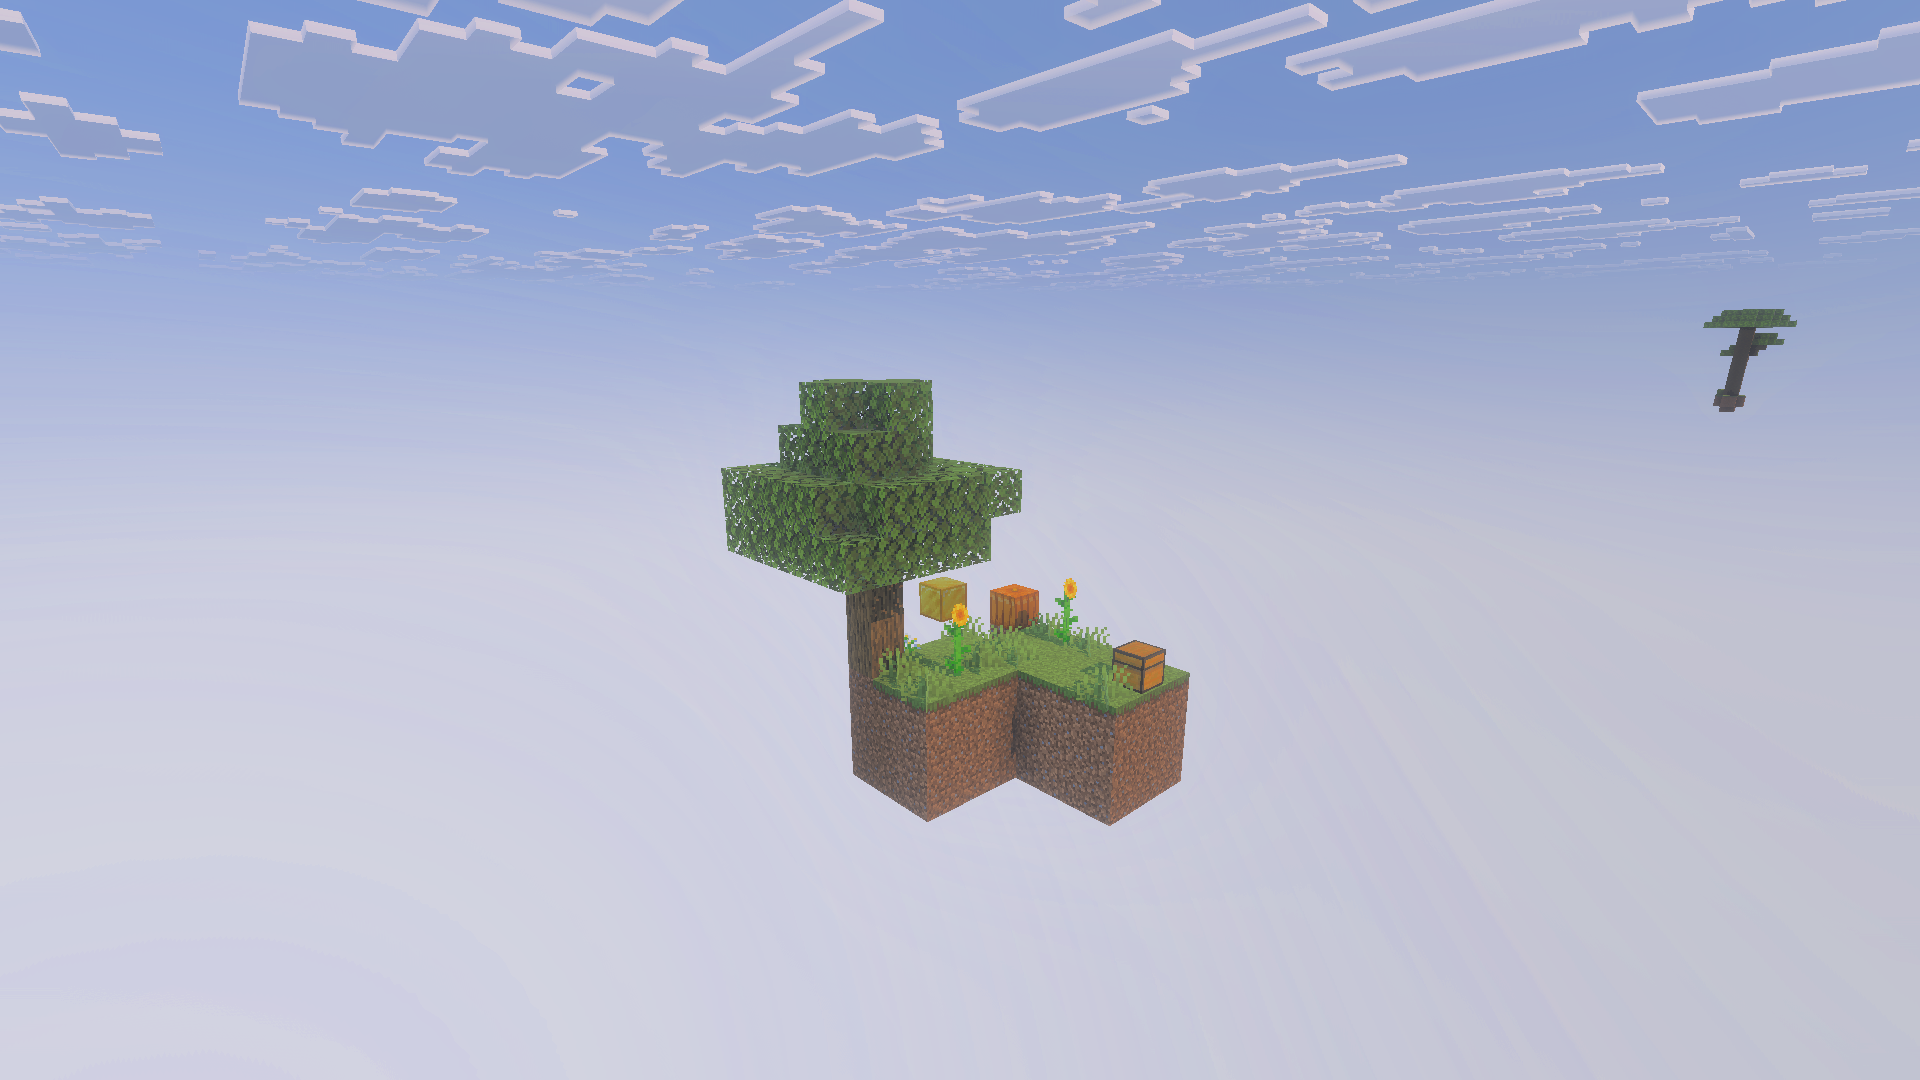
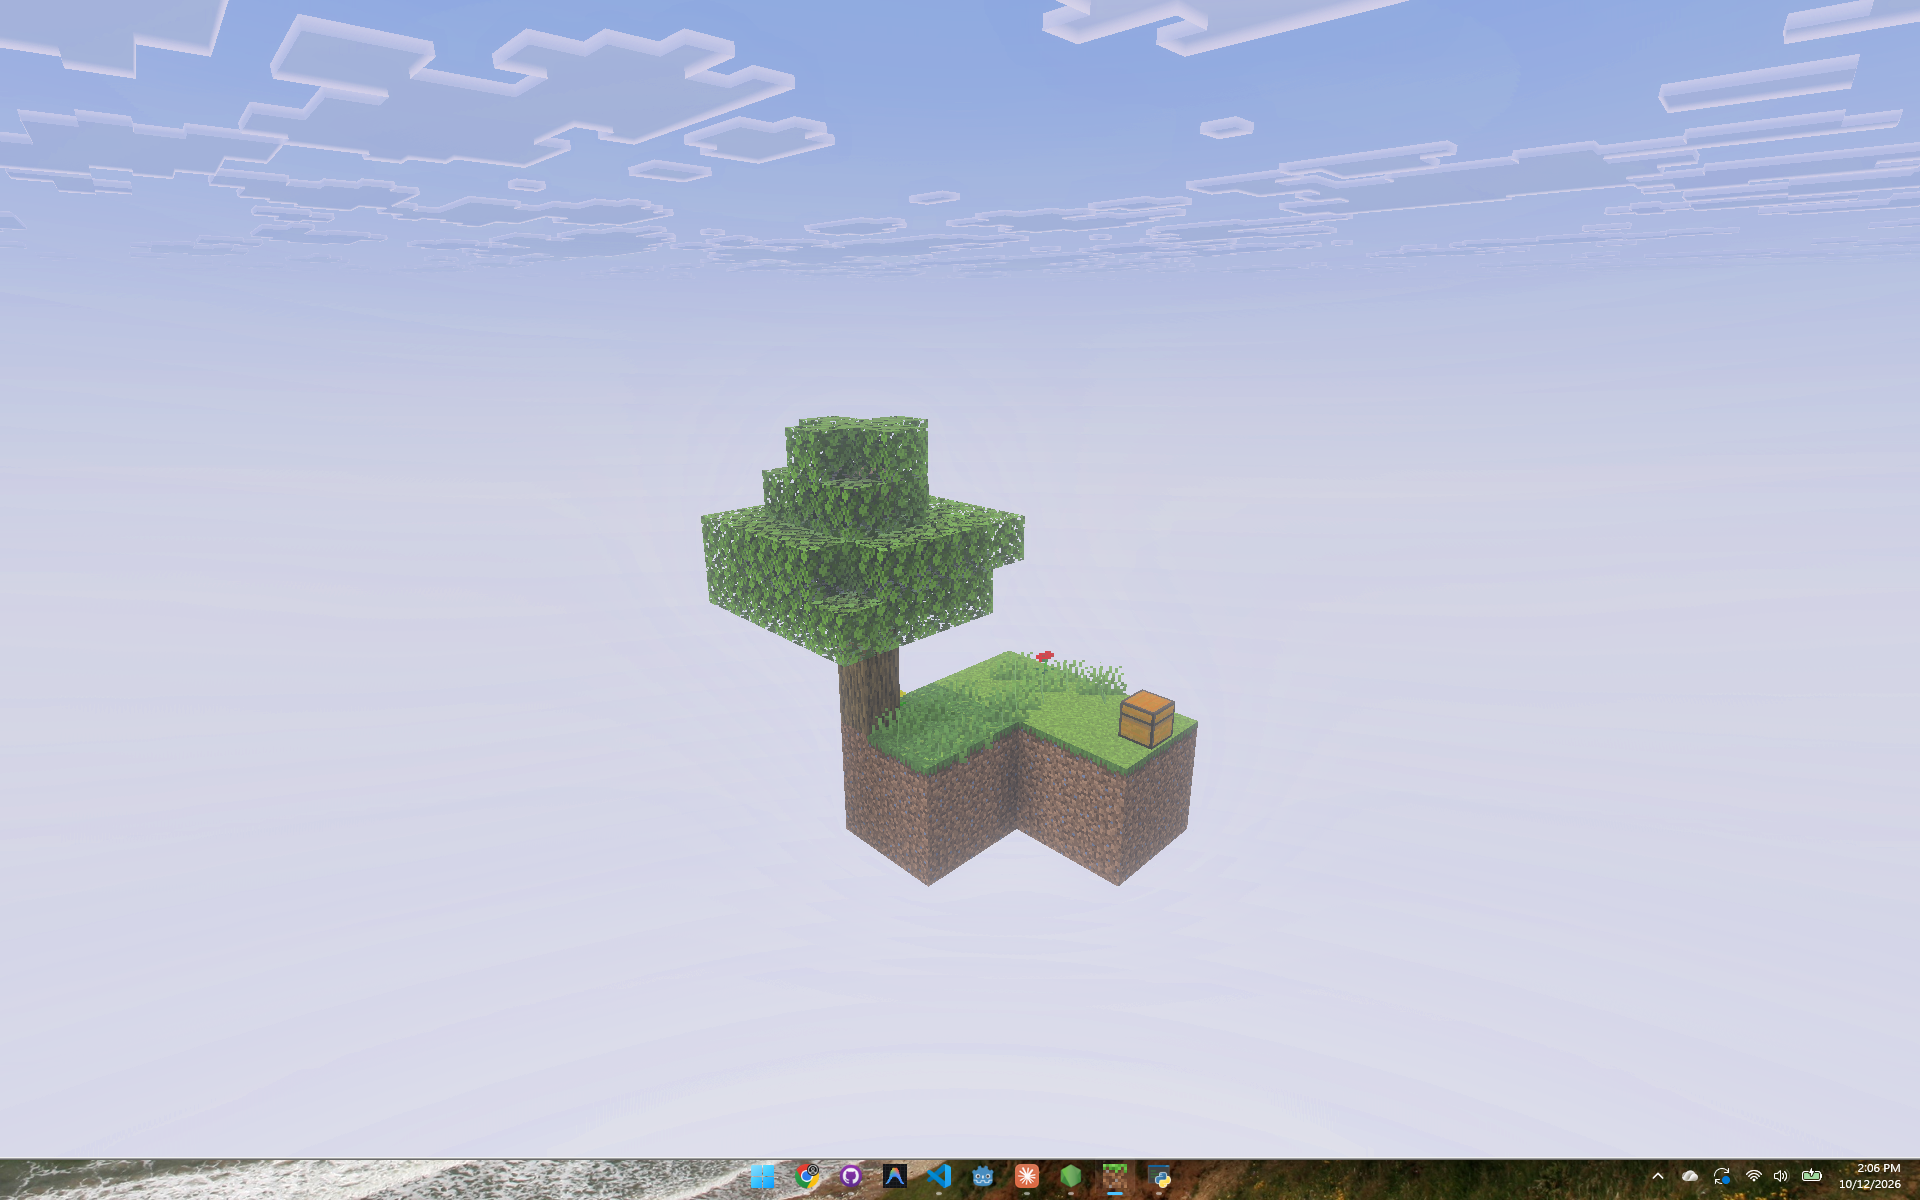
Rebuild the thumbnail from a fresh capture of the island
The plate the thumbnail was built from predated the island changing, so the
picture still showed a gold block that is not on the island any more. It is
re-shot, and the tool that shoots it is committed so it cannot drift again.

tools/capture_thumbnail_plate.py stages the island far out in the void and
photographs it twice: the bare stage, then the island standing on it. The
island is exactly what differs between the two frames, so the cut-out needs no
colour keying - the old keying fringed the leaves and ate the grass edge - and
keeping only the largest blob drops anything else that moved. Staging it also
means this neither needs the world to have been started nor changes it, which
matters because the dev world has never had its menu Start pressed.

Two things that were not obvious. Hiding the HUD does not keep chat out of the
plates, because what lands there is command feedback; sendcommandfeedback does.
And the client has to be joined and in front, or the shot grabs the desktop.

The composition is rebuilt against One Chunk Challenge rather than Four Sticks,
after reading the whole of the author's Planet Minecraft page rather than one
image: one island and no glints, and the title set ragged left on tracking
instead of justified to a common width, which is what every thumbnail there
does except Four Sticks and Hypixel Skyblock. The accent line is flat yellow,
as One Chunk's is, and tracking is positive so the black outlines separate the
[…]

diff --git a/tools/make_thumbnail.py b/tools/make_thumbnail.py
@@ -29,15 +29,19 @@ W, H = 1920, 1080
 STYLES = {
     "white": dict(top=(255, 255, 255), bot=(180, 184, 188), side=(138, 142, 146)),
     "gold":  dict(top=(255, 224, 90), bot=(255, 164, 14), side=(184, 105, 12)),
+    "yellow": dict(top=(255, 238, 92), bot=(255, 200, 0), side=(190, 140, 0)),
 }
 
+# Ragged left, the way One Chunk Challenge and One Block are set. The earlier
+# justified block came from Four Sticks alone; across the rest of the author's
+# thumbnails each line keeps its natural width.
 TITLE = [
-    dict(text="SKYBLOCK", style="white", cap=150, arc=9),
-    dict(text="INFINITE", style="white", cap=150, arc=9),
-    dict(text="BEDROCK",  style="gold",  cap=104, arc=-18),
+    dict(text="SKYBLOCK", style="white",  cap=146, arc=7),
+    dict(text="INFINITE", style="white",  cap=146, arc=7),
+    dict(text="BEDROCK",  style="yellow", cap=98,  arc=-10),
 ]
 
-STROKE, DEPTH, EXTRUDE_DEG, TRACK = 13, 8, 90, -12
+STROKE, DEPTH, EXTRUDE_DEG, TRACK = 13, 8, 90, 5
 
 
 # --------------------------------------------------------------------------- type
@@ -149,44 +153,26 @@ def _arc(img, bend):
 
 
 def render_title():
-    """Justify the two white lines to one width on tracking, then size the
-    accent line so it lands at 82 per cent of that and centre it, which is the
-    proportion the reference thumbnails use."""
-    white = [ln for ln in TITLE if ln["style"] != "gold"]
-    target = max(_advances(ln["cap"], ln["text"]) for ln in white)
-
-    plan = []
+    """Three lines set left, each at its natural width."""
+    pieces, widths = [], []
     for ln in TITLE:
-        if ln["style"] != "gold":
-            w = target
-            cap = ln["cap"]
-        else:
-            w = target * 0.82
-            # width scales with cap height, so solve for the cap that fits
-            cap = ln["cap"] * w / max(1.0, _advances(ln["cap"], ln["text"]))
-            cap = int(round(cap))
-            w = min(w, _advances(cap, ln["text"]) + 0.08 * cap * (len(ln["text"]) - 1))
-        tr = _track_for(cap, ln["text"], w)
-        tr = max(-0.20 * cap, min(0.06 * cap, tr))
-        plan.append((ln, cap, tr, w))
+        piece, natural = render_line(ln["text"], ln["cap"], ln["style"],
+                                     track=TRACK, arc=ln["arc"])
+        pieces.append(piece)
+        widths.append(natural)
 
-    pieces = [(ln, cap, render_line(ln["text"], cap, ln["style"], track=tr,
-                                    arc=ln["arc"])[0])
-              for ln, cap, tr, w in plan]
-
-    gap = 4
-    total = sum(cap for _, cap, _ in pieces) + gap * (len(pieces) - 1)
+    gap = 6
+    total = sum(ln["cap"] for ln in TITLE) + gap * (len(TITLE) - 1)
     pad = 190
-    block = Image.new("RGBA", (int(target) + pad * 2, int(total) + pad * 2),
+    block = Image.new("RGBA", (int(max(widths)) + pad * 2, int(total) + pad * 2),
                       (0, 0, 0, 0))
     y = pad
-    for (ln, cap, piece), (_, _, _, w) in zip(pieces, plan):
+    for ln, piece in zip(TITLE, pieces):
         inner_pad = STROKE + DEPTH + 60
         arc_pad = int(abs(ln["arc"])) + 2
-        x = pad + int((target - w) / 2)
-        block.alpha_composite(piece, (x - inner_pad, int(y - inner_pad - arc_pad)))
-        y += cap + gap
-    return block, pad, int(target), int(total)
+        block.alpha_composite(piece, (pad - inner_pad, int(y - inner_pad - arc_pad)))
+        y += ln["cap"] + gap
+    return block, pad, int(max(widths)), int(total)
 
 
 # ------------------------------------------------------------------------ scene
@@ -202,8 +188,8 @@ def _sky(size):
     w, h = size
     col = Image.new("RGB", (1, h))
     p = col.load()
-    stops = [(0.00, (3, 72, 253)), (0.34, (74, 155, 249)),
-             (0.56, (168, 214, 245)), (1.00, (214, 224, 236))]
+    stops = [(0.00, (0, 92, 255)), (0.38, (64, 160, 252)),
+             (0.62, (158, 212, 248)), (1.00, (206, 224, 240))]
     for y in range(h):
         t = y / (h - 1)
         for (t0, c0), (t1, c1) in zip(stops, stops[1:]):
@@ -263,89 +249,93 @@ def _vignette(img, strength=0.3):
     return Image.fromarray(np.clip(arr, 0, 255).astype(np.uint8), "RGB")
 
 
-def _island(plate):
-    """Cut the spawn island out of the screenshot, keyed off the flat void."""
-    crop = plate.crop((690, 330, 1230, 820)).convert("RGBA")
-    arr = np.asarray(crop).astype(np.int16)
-    r, g, b = arr[..., 0], arr[..., 1], arr[..., 2]
-    # the void is pale, blue-leaning and low contrast; the island is neither
-    void = (b > r + 6) & (b > 180) & (g > 170)
-    alpha = np.where(void, 0, 255).astype(np.uint8)
-    out = crop.copy()
-    out.putalpha(Image.fromarray(alpha, "L").filter(ImageFilter.MedianFilter(5)))
-    bbox = out.split()[3].getbbox()
-    return out.crop(bbox) if bbox else out
+# Inside the chat overlay's corner and above the Windows taskbar: the only part
+# of a capture where the island can be.
+SEARCH = (240, 170, 1800, 1120)
+SKY_CROP = (0, 60, 1920, 1140)   # 16:9 out of the 1920x1200 client window
+
+
+def _island(plate, void):
+    """The island is whatever differs between the staged shot and the empty one.
+
+    Keying it out of the sky by colour fringed the leaves and ate the grass
+    edge. A matching void frame cancels the sky, the clouds and the horizon
+    exactly, and keeping only the largest blob drops the chat overlay and any
+    stray column left standing outside the staging box."""
+    from scipy import ndimage
+
+    a = np.asarray(plate.convert("RGB")).astype(np.int16)
+    b = np.asarray(void.convert("RGB")).astype(np.int16)
+    diff = np.abs(a - b).max(axis=2)
+
+    mask = np.zeros(diff.shape, bool)
+    left, top, right, bottom = SEARCH
+    mask[top:bottom, left:right] = diff[top:bottom, left:right] > 14
+    mask = ndimage.binary_closing(mask, np.ones((3, 3)))
+
+    labels, count = ndimage.label(mask)
+    if not count:
+        raise SystemExit("nothing differs between the two plates; re-run tools/capture_thumbnail_plate.py")
+    sizes = ndimage.sum(mask, labels, range(1, count + 1))
+    keep = labels == (int(np.argmax(sizes)) + 1)
+
+    out = plate.convert("RGBA")
+    out.putalpha(Image.fromarray(np.where(keep, 255, 0).astype(np.uint8), "L"))
+    ys, xs = np.nonzero(keep)
+    return out.crop((xs.min(), ys.min(), xs.max() + 1, ys.max() + 1))
 
 
 def build():
     plate = Image.open(os.path.join(ROOT, "assets", "background.png")).convert("RGB")
+    void = Image.open(os.path.join(ROOT, "assets", "background_void.png")).convert("RGB")
+    backdrop = void.crop(SKY_CROP).resize((W, H), Image.LANCZOS)
 
     canvas = _sky((W, H))
 
-    # the void itself, pulled from the screenshot and pushed right back
-    far = _haze(plate.copy(), amount=0.72, blur=7)
-    canvas = Image.blend(canvas, far, 0.42)
+    # the void itself, straight off the empty plate, so no island but ours is in it
+    far = _haze(backdrop.copy(), amount=0.82, blur=30)
+    canvas = Image.blend(canvas, far, 0.28)
 
     # the screenshot's own cloud deck, kept only across the top of the frame
-    clouds = _haze(plate.copy(), amount=0.30, blur=1.5)
+    clouds = _haze(backdrop.copy(), amount=0.30, blur=1.5)
     ramp = Image.new("L", (1, H))
     rp = ramp.load()
     for y in range(H):
-        rp[0, y] = int(255 * max(0.0, 1.0 - y / 340.0) ** 1.3 * 0.72)
+        rp[0, y] = int(255 * max(0.0, 1.0 - y / 430.0) ** 1.2 * 0.88)
     canvas = Image.composite(clouds, canvas, ramp.resize((W, H), Image.BICUBIC))
     canvas = _grade(canvas, sat=1.35, contrast=1.10, bright=1.04).convert("RGBA")
 
-    island = _island(plate)
+    island = _island(plate, void)
 
-    # far islands, specks of the forty-seven out in the void
-    for x, y, scale, amount, blur in [
-        (74, 884, 0.26, 0.52, 1.6),
-        (596, 928, 0.18, 0.64, 2.2),
-        (1796, 300, 0.20, 0.50, 1.4),
-        (352, 158, 0.12, 0.76, 3.0),
-    ]:
-        s_ = island.resize((max(1, int(island.width * scale)),
-                            max(1, int(island.height * scale))), Image.LANCZOS)
-        canvas.alpha_composite(_haze(s_, amount, blur), (x, y))
-
-    # a whole island behind the player, for the tree and a sense of depth
-    mid = island.resize((int(island.width * 0.74), int(island.height * 0.74)),
+    # One island, and only one. Its own tree carries the height; the void
+    # behind it is the point of the add-on, so nothing else floats in it.
+    SCALE = 2.40
+    GRASS = 252                      # the walkable surface inside the cut-out
+    big = island.resize((int(island.width * SCALE), int(island.height * SCALE)),
                         Image.LANCZOS)
-    canvas.alpha_composite(_haze(mid, 0.28, 1.1), (1596, 74))
+    rgb = _grade(big.convert("RGB"), sat=1.46, contrast=1.15, bright=1.02).convert("RGBA")
+    rgb.putalpha(big.split()[3])
+    island_pos = (700, 700 - int(GRASS * SCALE))
+    ground_y = island_pos[1] + int(GRASS * SCALE)
+    canvas.alpha_composite(rgb, island_pos)
 
-    # sparkle frames
-    canvas.alpha_composite(_sparkle(132, 5, 22), (902, 128))
-    canvas.alpha_composite(_sparkle(84, 4, -15), (1352, 76))
-
-    # The foreground platform: the island's grass and dirt only, blown up so a
-    # block reads at roughly 150px and the player sits at a believable height
-    # against it. The canopy is left out; the island behind carries the tree.
-    slab = island.crop((108, 272, island.width, island.height))
-    SCALE = 3.0
-    slab = slab.resize((int(slab.width * SCALE), int(slab.height * SCALE)), Image.LANCZOS)
-    rgb = _grade(slab.convert("RGB"), sat=1.5, contrast=1.16, bright=1.02).convert("RGBA")
-    rgb.putalpha(slab.split()[3])
-    slab_pos = (742, 672)
-    ground_y = slab_pos[1] + int((302 - 272) * SCALE)   # the walkable surface
-    canvas.alpha_composite(rgb, slab_pos)
-
-    # the player, four blocks tall against that platform
+    # the player, standing on it
     char = skin_render.render(os.path.join(ROOT, "assets", "skin.png"),
-                              height=604, yaw=-24, pitch=5, outline=9)
-    cx = 1196
-    cy = ground_y - char.height + 32
-    shadow = Image.new("RGBA", (int(char.width * 0.66), 58), (0, 0, 0, 0))
+                              height=468, yaw=-24, pitch=5, outline=8)
+    cx = 1206
+    cy = ground_y - char.height + 26
+    shadow = Image.new("RGBA", (int(char.width * 0.60), 46), (0, 0, 0, 0))
     ImageDraw.Draw(shadow).ellipse([0, 0, shadow.width - 1, shadow.height - 1],
-                                   fill=(0, 0, 0, 105))
-    shadow = shadow.filter(ImageFilter.GaussianBlur(12))
-    canvas.alpha_composite(shadow, (cx + int(char.width * 0.19), ground_y - 16))
+                                   fill=(0, 0, 0, 110))
+    shadow = shadow.filter(ImageFilter.GaussianBlur(10))
+    canvas.alpha_composite(shadow, (cx + int(char.width * 0.21), ground_y - 14))
     canvas.alpha_composite(char, (cx, cy))
 
     # title
     block, pad, tw, th = render_title()
     tilt = -2.0
     block = block.rotate(tilt, expand=True, resample=Image.BICUBIC)
-    canvas.alpha_composite(block, (104 - pad, 352 - pad))
+    canvas.alpha_composite(block, (88 - pad, 72 - pad))
 
     out = _vignette(canvas.convert("RGB"), 0.30)
     return _grade(out, sat=1.08, contrast=1.04, bright=1.0)

diff --git a/tools/capture_thumbnail_plate.py b/tools/capture_thumbnail_plate.py
@@ -1,0 +1,95 @@
+"""Photograph the starting island for the thumbnail, and the empty void behind it.
+
+Two frames from one camera: the bare stage, then the island standing on it. What
+differs between them is the island exactly - leaves, grass fringe and all - so
+the thumbnail needs no colour keying and nothing fringes.
+
+The island is staged far out in the void rather than photographed at spawn, so
+this neither needs the world to have been started nor changes it. Writes
+assets/background.png and assets/background_void.png, which
+tools/make_thumbnail.py reads.
+
+Needs the server up, the MCP bridge with it, and the client joined (see README).
+
+    python tools/capture_thumbnail_plate.py
+    python tools/capture_thumbnail_plate.py --island starting_islands/cherry_grove
+"""
+
+from __future__ import annotations
+
+import argparse
+import os
+import sys
+
+HERE = os.path.dirname(os.path.abspath(__file__))
+REPO = os.path.dirname(HERE)
+sys.path.insert(0, HERE)
+
+import client_drive
+from bridge import Bridge
+from capture_previews import STAGE, clear, islands, stable_shot
+from verify_islands import wait_for_chunk
+
+ASSETS = os.path.join(REPO, "assets")
+
+# Lower and closer than the menu previews' camera: the thumbnail wants the
+# island near eye level, the way One Chunk Challenge frames its chunk.
+LIFT, REACH = 0.30, 1.22
+
+
+def main():
+    ap = argparse.ArgumentParser(description=__doc__)
+    ap.add_argument("--island", default="starting_islands/plaines")
+    ap.add_argument("--reach", type=float, default=REACH,
+                    help="pull the camera back if the island runs off frame")
+    args = ap.parse_args()
+
+    table = islands()
+    if args.island not in table:
+        sys.exit(f"no such island: {args.island}\n" + "\n".join(sorted(table)[:10]) + " ...")
+    island = table[args.island]
+
+    client_drive.focus()        # the shot grabs the screen, so the game must be in front
+    bridge = Bridge()
+    # command feedback prints into chat, and chat is drawn over the shot; turning
+    # it off is what keeps the plates clean, not hiding the HUD
+    for command in ("gamerule sendcommandfeedback false", "gamerule dodaylightcycle false",
+                    "gamerule doweathercycle false", "time set noon", "weather clear",
+                    "gamemode spectator @a", "hud @a hide all"):
+        bridge.command(command)
+
+    x, y, z = STAGE
+    bridge.command(f"tickingarea add circle {x} {y} {z} 3 sbi_thumb")
+    if not wait_for_chunk(bridge, "overworld", STAGE, timeout=20):
+        sys.exit("the staging chunk never loaded")
+
+    sx, sy, sz = island["size"]
+    middle = (x + sx / 2, y + sy / 2, z + sz / 2)
+    span = (max(island["size"]) * 1.45 + 5.0) * args.reach
+    dx, dy, dz = span * 0.66, span * LIFT, span * 0.66
+    bridge.command(f"tp @a {middle[0] + dx:.2f} {middle[1] + dy:.2f} {middle[2] + dz:.2f} "
+                   f"facing {middle[0]:.2f} {middle[1]:.2f} {middle[2]:.2f}")
+
+    os.makedirs(ASSETS, exist_ok=True)
+    clear(bridge, STAGE)
+    void = stable_shot("thumb_void")
+    void.save(os.path.join(ASSETS, "background_void.png"))
+    print(f"wrote assets/background_void.png {void.size[0]}x{void.size[1]}")
+
+    loaded = bridge.command(f"structure load {island['structure']} {x} {y} {z}")
+    if "success_count: 1" not in loaded:
+        sys.exit(f"structure load said {loaded.strip()[:80]}")
+    shot = stable_shot("thumb_island", differs_from=void)
+    shot.save(os.path.join(ASSETS, "background.png"))
+    print(f"wrote assets/background.png {shot.size[0]}x{shot.size[1]}")
+
+    clear(bridge, STAGE)
+    for command in ("tickingarea remove sbi_thumb", "hud @a reset all",
+                    "gamerule dodaylightcycle true", "gamerule doweathercycle true",
+                    "gamerule sendcommandfeedback true", "gamemode creative @a"):
+        bridge.command(command)
+    return 0
+
+
+if __name__ == "__main__":
+    raise SystemExit(main())

diff --git a/tests/test_static.py b/tests/test_static.py
@@ -334,7 +334,7 @@ class Thumbnail(unittest.TestCase):
     ASSETS = os.path.join(ROOT, "assets")
 
     def test_sources_are_committed(self):
-        for name in ("background.png", "skin.png"):
+        for name in ("background.png", "background_void.png", "skin.png"):
             self.assertTrue(os.path.isfile(os.path.join(self.ASSETS, name)),
                             f"assets/{name} is missing, so the thumbnail cannot be rebuilt")
         self.assertTrue(os.path.isfile(os.path.join(ROOT, "tools", "fonts",
